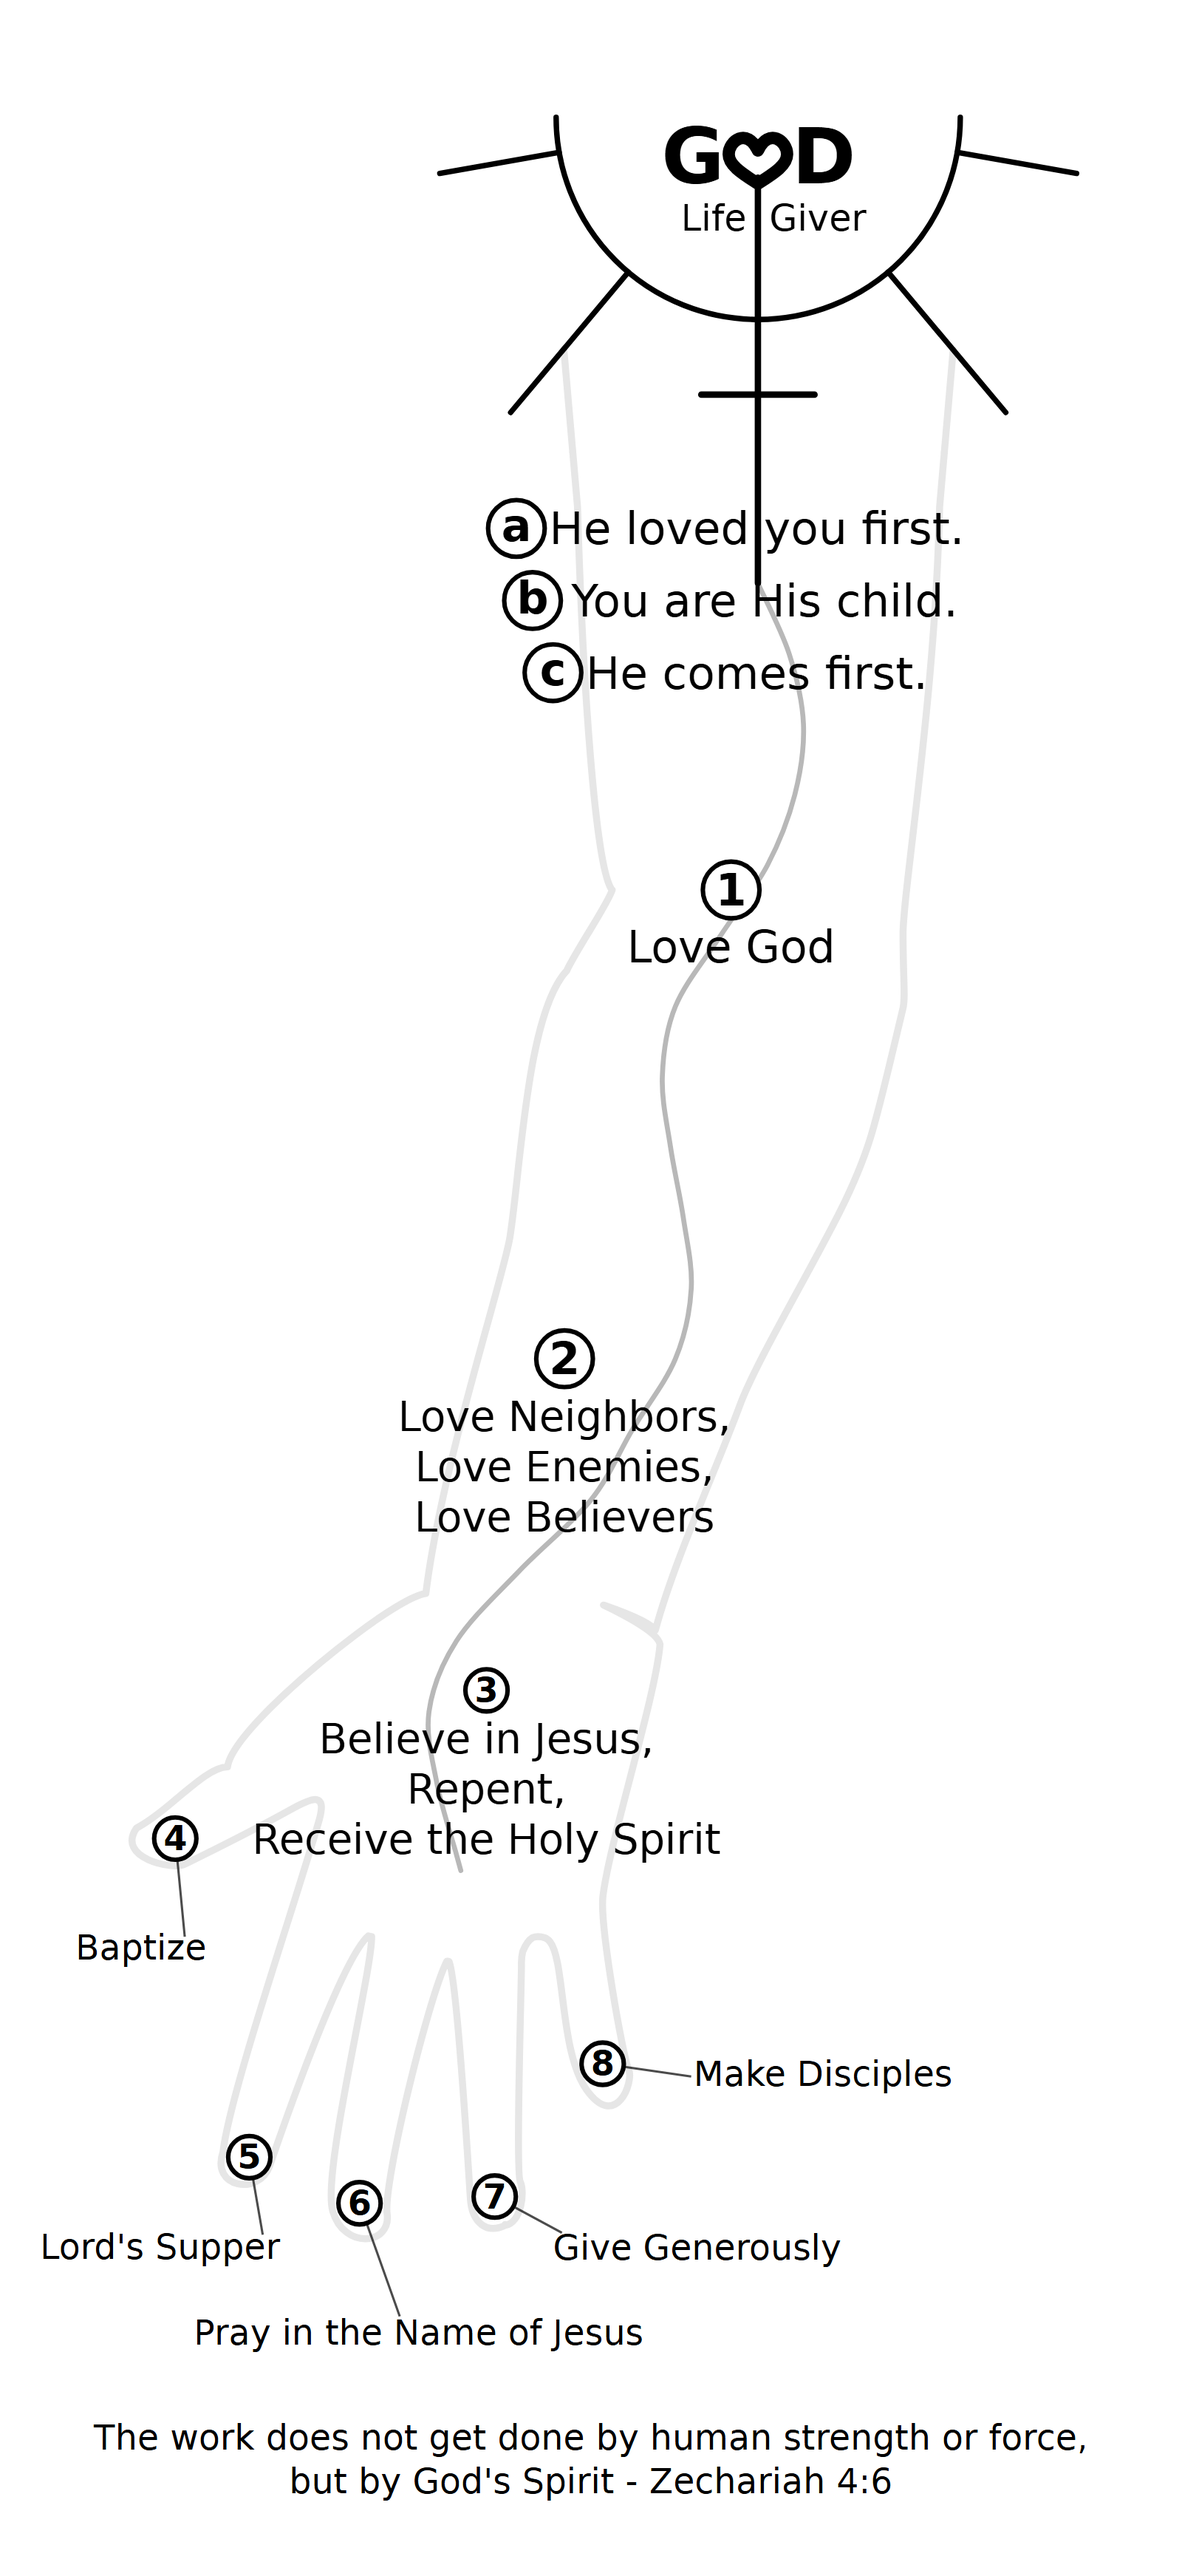
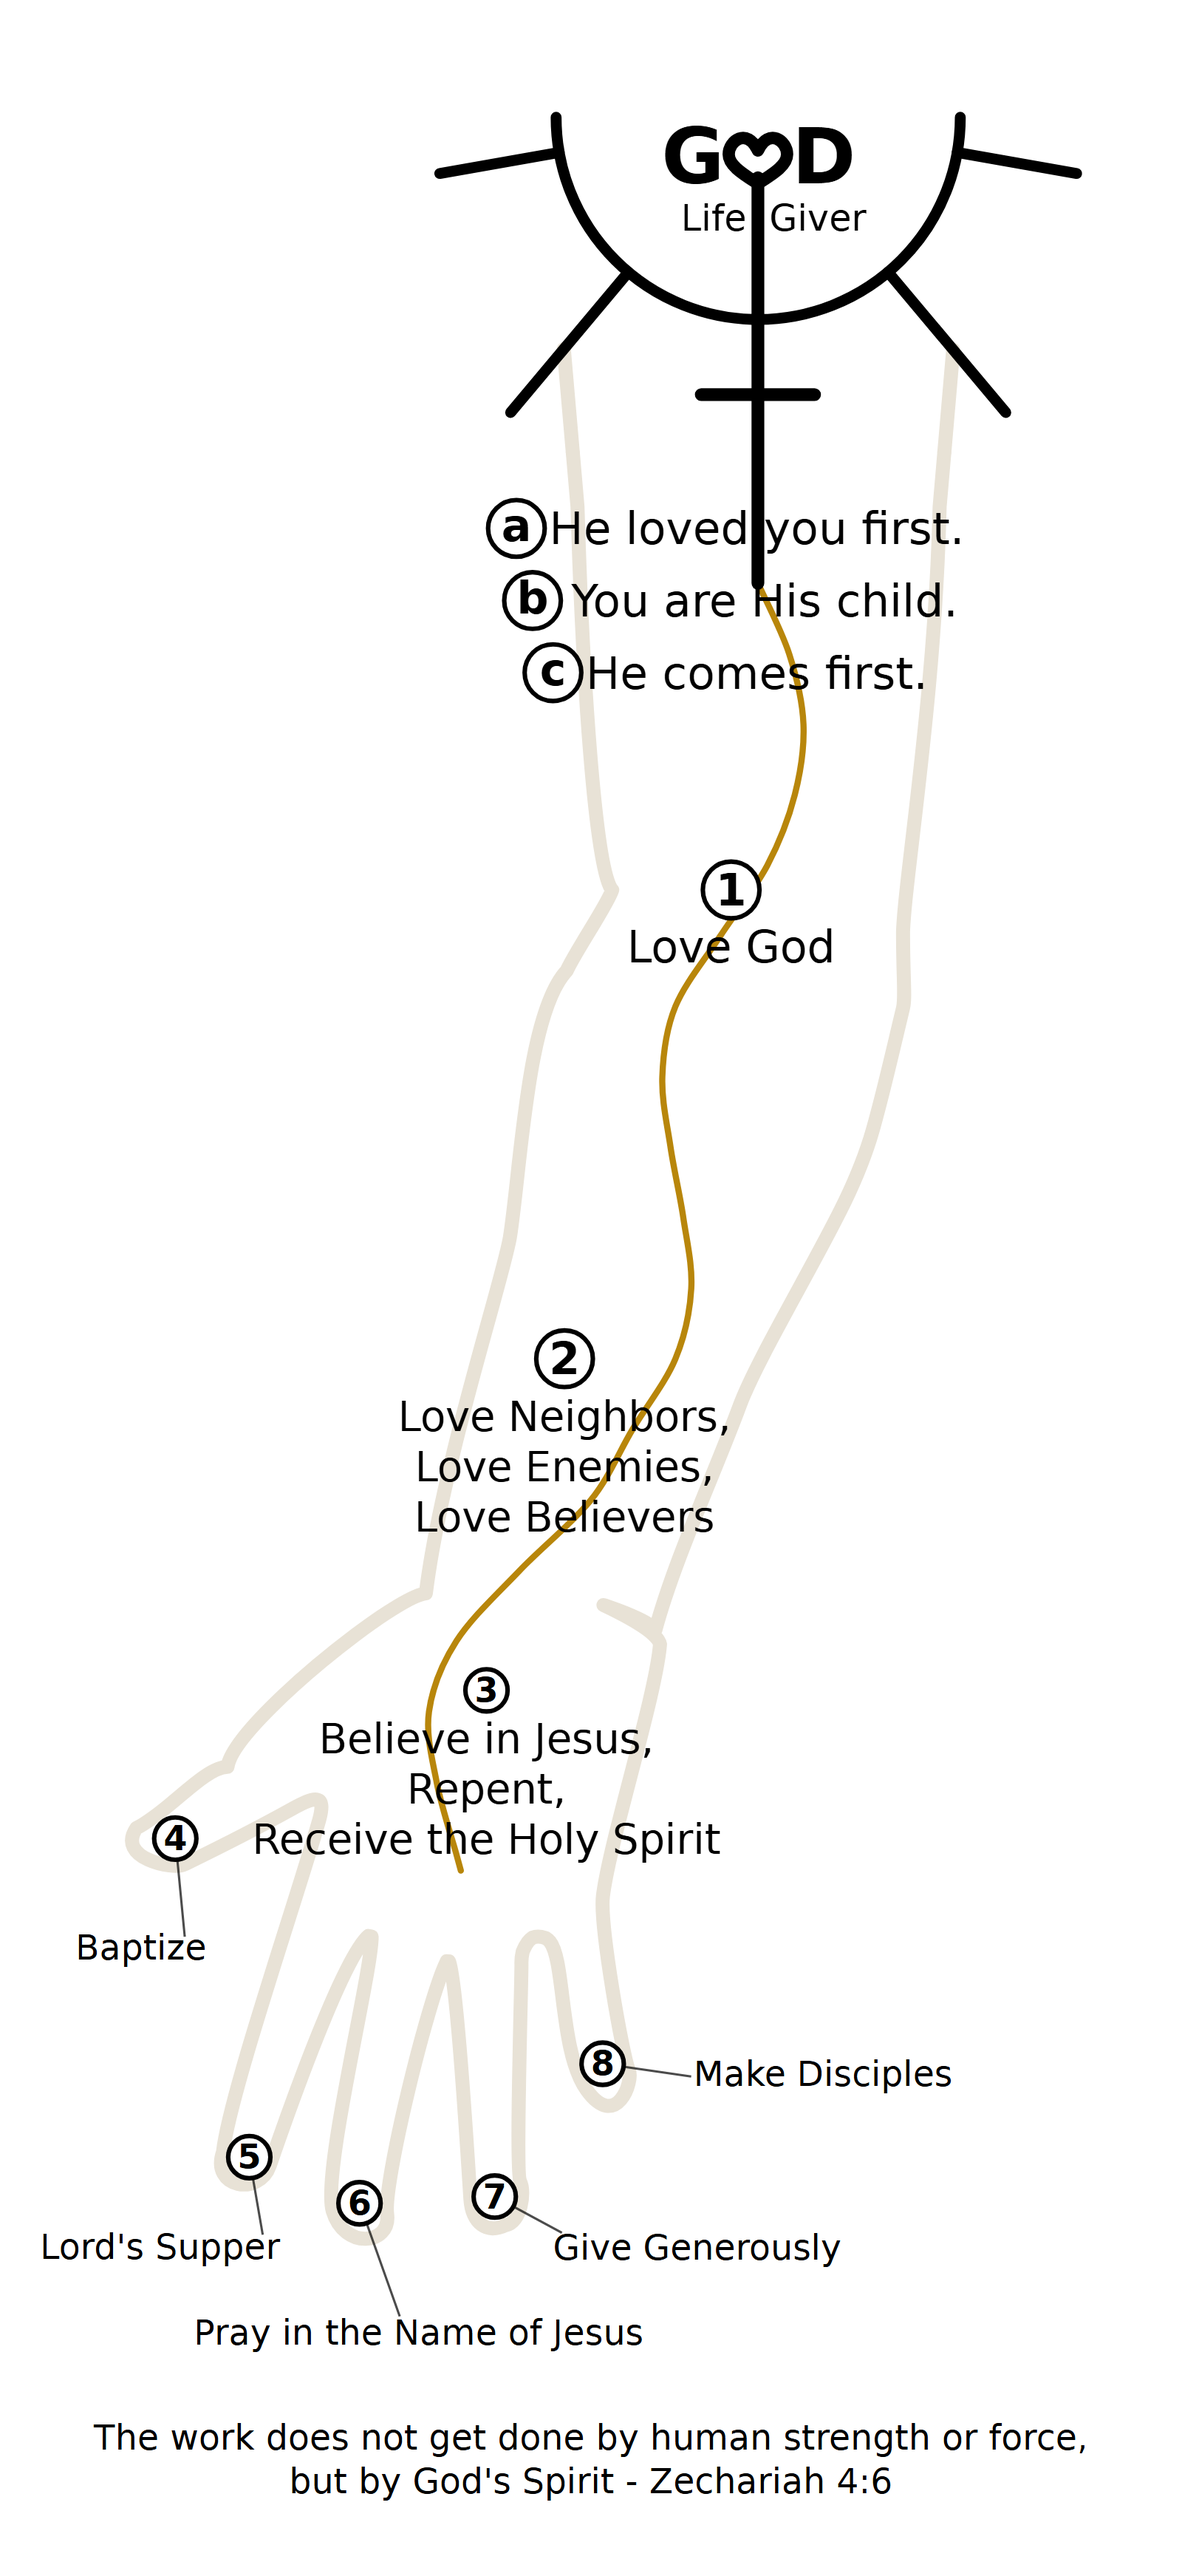
Colorize the arm diagram working copy and thicken its structural lines (#3)
Applies to arm-commands-v30.* only; arm-commands.* stays as the black
line-art master.

Colour - one accent, on the life-line, which runs from the cross down the
arm and is the element the Zechariah 4:6 caption is about:

  life-line              #b8b8b8 -> #B8860B, width 48 -> 60
  arm + shoulder lines   #e6e6e6 -> #E8E2D6 (warm neutral, so the pale
                         outline does not read cold against the gold)

Chosen dark rather than bright because the handout gets printed: a bright
gold is mostly yellow ink, which muddies on laser and collapses toward
white in greyscale. Greyscale separation is now arm 226 / life-line 135 /
black 0, better than the 230 / 184 / 0 it replaces.

Stroke weights doubled:

  sun arc + 4 rays (.str0)   52.92 -> 105.84
  arm path                   52.92 -> 105.84
  shoulder lines             68.16 -> 136.32
  cross staff + crossbar     62    -> 124

Left alone: numbered circles (44), leader lines (22), the heart in the
wordmark (120). Nothing clips - the heavier rays move the top margin from
155 to 151 px.

Two open questions this leaves, both deliberate non-changes: the arm
outline is now 1.76x the life-line, which inverts the weight relationship
the width-60 bump was meant to establish; and the life-line still stops at
the wrist, ~450 px short of the finger markers, which the gold makes
conspicuous where the grey hid it.

Also records both arm-commands pairs in the spec's root-assets table,
[…]

diff --git a/m2l-handout-spec.md b/m2l-handout-spec.md
@@ -522,6 +522,14 @@ nothing live until it is re-embedded):
 | `rivercross.png` | 1600×2400 raster export — **this is the copy embedded in `index.html`** |
 | `rivercross-white.png` | A second 1600×2400 export, also white-backed; not used by the page |
 | `RiverOriginal.png`, `clearriver.png` | Earlier drafts, unused |
+| `arm-commands.svg` / `.png` | Arm diagram mapping the 8 great commands onto an arm and hand, 1600×3485. Black line art |
+| `arm-commands-v30.svg` / `.png` | Working copy of the above, colorized — gold (`#B8860B`) life-line, warm-neutral arm |
+
+The arm diagram is **not on the page yet**. Its `.svg` is the master and the `.png` a
+render of it; re-rendering requires the `DejaVu Sans` font the SVG asks for, or every
+label re-flows in the Arial fallback. Its viewBox height (`24999.01`) is deliberate —
+it preserves the render scale earlier versions used, so keep
+`height = width × 24999.01/11477` if exporting at another width.
 
 Keep these as PNG/SVG. This is line art on a flat background, the case JPEG is worst at:
 exporting `rivercross-white.png` to a quality-95 JPEG produced a 467 KB file against the
